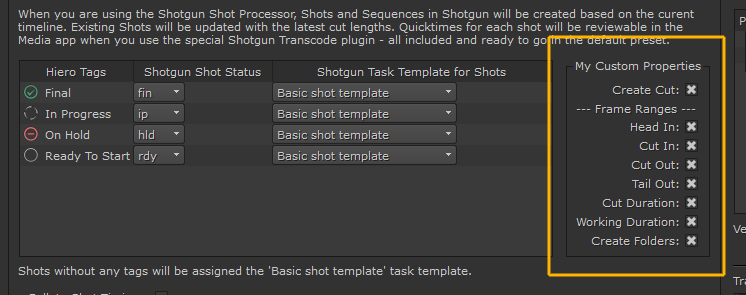
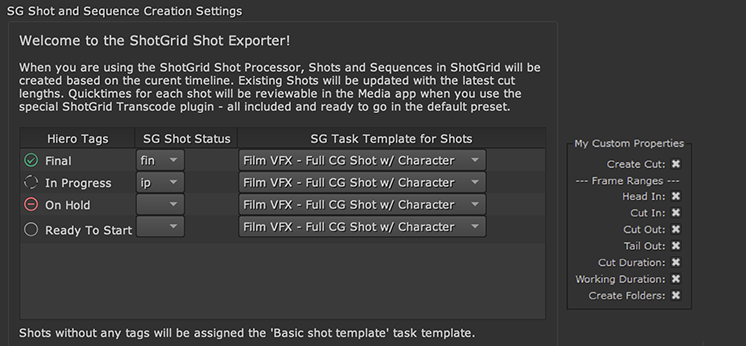
sg-22648-shotgrid replace shotgun instances (#51)
* sg-22648-shotgrid replace shotgun instances

* sg-22648-shotgrid replace shotgun instances

* sg-22648-shotgrid replace shotgun instances

* Update hiero_export_custom_ui.png

* Code validation fix

diff --git a/python/tk_hiero_export/sg_shot_processor.py b/python/tk_hiero_export/sg_shot_processor.py
@@ -93,12 +93,12 @@ class ShotgunShotProcessorUI(
         header_text.setWordWrap(True)
         header_text.setText(
             """
-            <big>Welcome to the Shotgun Shot Exporter!</big>
-            <p>When you are using the Shotgun Shot Processor, Shots and
-            Sequences in Shotgun will be created based on the curent timeline.
+            <big>Welcome to the ShotGrid Shot Exporter!</big>
+            <p>When you are using the ShotGrid Shot Processor, Shots and
+            Sequences in ShotGrid will be created based on the curent timeline.
             Existing Shots will be updated with the latest cut lengths.
             Quicktimes for each shot will be reviewable in the Media app when
-            you use the special Shotgun Transcode plugin - all included and
+            you use the special ShotGrid Transcode plugin - all included and
             ready to go in the default preset.
             </p>
             """
@@ -167,7 +167,7 @@ class ShotgunShotProcessorUI(
         :param properties: A dict containing the 'sg_cut_type' preset
         :return: QtGui.QLayout - for the cut type widget
         """
-        tooltip = "What to populate in the `Type` field for this Cut in Shotgun"
+        tooltip = "What to populate in the `Type` field for this Cut in ShotGrid"
 
         # ---- construct the widget
 
@@ -493,7 +493,7 @@ class ShotgunShotProcessor(ShotgunHieroObjectBase, FnShotProcessor.ShotProcessor
         if not self._cutsSupported():
             # cuts not supported. all done here
             self.app.log_info(
-                "No Cut support in this version of Shotgun. Not attempting to "
+                "No Cut support in this version of ShotGrid. Not attempting to "
                 "create Cut or CutItem entries."
             )
             return
@@ -522,7 +522,7 @@ class ShotgunShotProcessor(ShotgunHieroObjectBase, FnShotProcessor.ShotProcessor
         if collateTracks or collateShotNames:
             self.app.log_info(
                 "Cut support is ill defined for collating in Hiero. Not "
-                "attempting to create Cut or CutItem entries in Shotgun."
+                "attempting to create Cut or CutItem entries in ShotGrid."
             )
             return
 
@@ -804,8 +804,8 @@ class ShotgunShotProcessor(ShotgunHieroObjectBase, FnShotProcessor.ShotProcessor
         # create the cut to get the id.
         sg = self.app.shotgun
         cut = sg.create("Cut", cut_data)
-        self._app.log_debug("Created Cut in Shotgun: %s" % (cut,))
-        self._app.log_info("Created Cut '%s' in Shotgun!" % (cut["code"],))
+        self._app.log_debug("Created Cut in ShotGrid: %s" % (cut,))
+        self._app.log_info("Created Cut '%s' in ShotGrid!" % (cut["code"],))
 
         # make sure the cut item data dicts are updated with the cut info
         for cut_item_data in cut_item_data_list:

diff --git a/hooks/hiero_get_shot.py b/hooks/hiero_get_shot.py
@@ -57,7 +57,7 @@ class HieroGetShot(Hook):
                 "project": self.parent.context.project,
             }
             shot = sg.create("Shot", shot_data, return_fields=fields)
-            self.parent.log_info("Created Shot in Shotgun: %s" % shot_data)
+            self.parent.log_info("Created Shot in ShotGrid: %s" % shot_data)
         else:
             shot = shots[0]
 
@@ -121,7 +121,7 @@ class HieroGetShot(Hook):
             }
             parent = sg.create(par_entity_type, par_data)
             self.parent.log_info(
-                "Created %s in Shotgun: %s" % (par_entity_type, par_data)
+                "Created %s in ShotGrid: %s" % (par_entity_type, par_data)
             )
         else:
             parent = parents[0]

diff --git a/python/tk_hiero_export/base.py b/python/tk_hiero_export/base.py
@@ -182,7 +182,7 @@ class ShotgunHieroObjectBase(object):
             self.app.shotgun.upload_thumbnail(sg_entity["type"], sg_entity["id"], path)
         except Exception as e:
             self.app.log_info(
-                "Thumbnail for %s %s (#%s) was not refreshed in Shotgun: %s"
+                "Thumbnail for %s %s (#%s) was not refreshed in ShotGrid: %s"
                 % (sg_entity["type"], sg_entity.get("name"), sg_entity["id"], e)
             )
         finally:

diff --git a/python/tk_hiero_export/version_creator.py b/python/tk_hiero_export/version_creator.py
@@ -452,7 +452,7 @@ class ShotgunTranscodeExporter(
 
             if os.path.exists(self._quicktime_path):
                 self.app.log_debug(
-                    "Uploading quicktime to Shotgun... (%s)" % self._quicktime_path
+                    "Uploading quicktime to ShotGrid... (%s)" % self._quicktime_path
                 )
                 self.app.shotgun.upload(
                     "Version", vers["id"], self._quicktime_path, "sg_uploaded_movie"

diff --git a/python/tk_hiero_export/sg_nuke_shot_export.py b/python/tk_hiero_export/sg_nuke_shot_export.py
@@ -212,7 +212,7 @@ class ShotgunNukeShotExporter(
 
         publish_entity_type = sgtk.util.get_published_file_entity_type(self.app.sgtk)
 
-        self.app.log_debug("Register publish in shotgun: %s" % str(args))
+        self.app.log_debug("Register publish in ShotGrid: %s" % str(args))
         sg_publish = sgtk.util.register_publish(**args)
         if self._extra_publish_data is not None:
             self.app.log_debug(

diff --git a/hooks/hiero_update_cuts.py b/hooks/hiero_update_cuts.py
@@ -54,7 +54,7 @@ class HieroUpdateCuts(HookBaseClass):
         :rtype: dict or None
         """
         cut_item = self.parent.sgtk.shotgun.create("CutItem", cut_item_data)
-        self.parent.logger.info("Created CutItem in Shotgun: %s" % cut_item)
+        self.parent.logger.info("Created CutItem in ShotGrid: %s" % cut_item)
         return cut_item
 
     def get_cut_thumbnail(self, cut, task_item, preset_properties):

diff --git a/python/base_hooks/hiero_customize_export_ui.py b/python/base_hooks/hiero_customize_export_ui.py
@@ -71,7 +71,7 @@ class HieroCustomizeExportUI(HookBaseClass):
                     label="Create Cut:",
                     name="custom_create_cut_bool_property",
                     value=True,
-                    tooltip="Create a Cut and CutItems in Shotgun...",
+                    tooltip="Create a Cut and CutItems in ShotGrid...",
                 ),
                 dict(
                     label="Head In:",

diff --git a/hooks/hiero_upload_thumbnail.py b/hooks/hiero_upload_thumbnail.py
@@ -73,7 +73,7 @@ class HieroUploadThumbnail(Hook):
             self.parent.shotgun.upload_thumbnail(entity["type"], entity["id"], path)
         except:
             self.parent.log_info(
-                "Thumbnail for %s was not refreshed in Shotgun." % source
+                "Thumbnail for %s was not refreshed in ShotGrid." % source
             )
 
             tb = traceback.format_exc()

diff --git a/python/tk_hiero_export/sg_audio_export.py b/python/tk_hiero_export/sg_audio_export.py
@@ -239,7 +239,7 @@ class ShotgunAudioExporter(
             args["task"] = self._sg_task
 
         # register publish
-        self.app.log_debug("Register publish in shotgun: %s" % str(args))
+        self.app.log_debug("Register publish in ShotGrid: %s" % str(args))
         pub_data = sgtk.util.register_publish(**args)
 
         # upload thumbnail for publish

diff --git a/docs/index.rst b/docs/index.rst
@@ -1,18 +1,18 @@
-Shotgun Hiero Export API reference, |release|
-#############################################
+ShotGrid Hiero Export API reference, |release|
+##############################################
 
 Overview
 ********
 
-The ``tk-hiero-export`` app adds custom Shotgun export processors to the Hiero/Nuke Studio export framework.
+The ``tk-hiero-export`` app adds custom ShotGrid export processors to the Hiero/Nuke Studio export framework.
 
-By way of custom export processors, the user can create and update entities in the current Project in Shotgun.
+By way of custom export processors, the user can create and update entities in the current Project in ShotGrid.
 
 During the export process a number things can happen:
 
 - Status of associated Shot entities can be updated
 - Nuke scripts can be written into the project's filesystem structure for each Shot that's processed
-- Sequence and Shot entity data can be updated in Shotgun
+- Sequence and Shot entity data can be updated in ShotGrid
 - Cuts can be update to include new CutItems built from the exported sequences
 
 Documentation from The Foundry concerning the Hiero Python API can be found `here. <https://learn.foundry.com/hiero/developers/11.0/HieroPythonDevGuide/api/index.html>`__
@@ -81,8 +81,8 @@ Resolving strings into Shotgun-queried values
     :members:
 
 
-Resolving Shotgun Toolkit templates into export string representations
-----------------------------------------------------------------------
+Resolving ShotGrid Toolkit templates into export string representations
+-----------------------------------------------------------------------
 
 .. autoclass:: HieroTranslateTemplate
     :members:
@@ -95,8 +95,8 @@ Customizing Version entity data
     :members:
 
 
-Uploading Thumbnails to Shotgun
--------------------------------
+Uploading Thumbnails to ShotGrid
+--------------------------------
 
 .. autoclass:: HieroUploadThumbnail
     :members:

diff --git a/README.md b/README.md
@@ -4,11 +4,11 @@
 [![Linting](https://img.shields.io/badge/PEP8%20by-Hound%20CI-a873d1.svg)](https://houndci.com)
 
 ## Documentation
-This repository is a part of the Shotgun Pipeline Toolkit.
+This repository is a part of the ShotGrid Pipeline Toolkit.
 
 - For more information about this app and for release notes, *see the wiki section*.
 - For general information and documentation, click here: https://support.shotgunsoftware.com/entries/95441257
-- For information about Shotgun in general, click here: http://www.shotgunsoftware.com/toolkit
+- For information about ShotGrid in general, click here: https://help.autodesk.com/view/SGSUB/ENU/
 
 ## Using this app in your Setup
 All the apps that are part of our standard app suite are pushed to our App Store.
